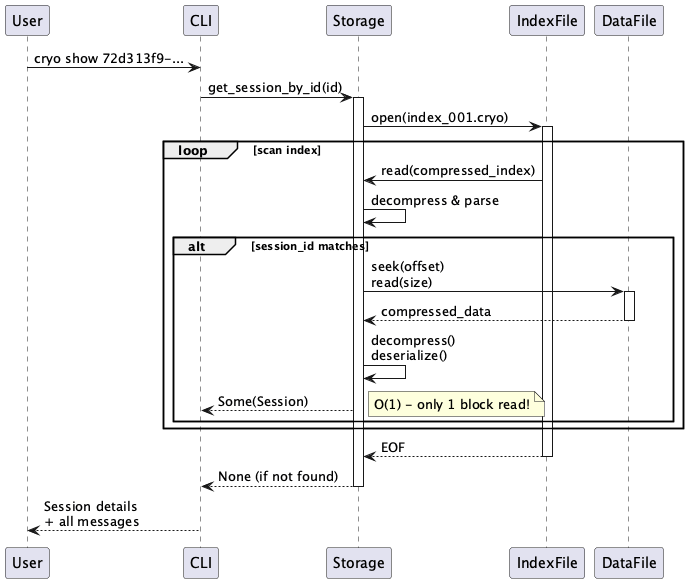
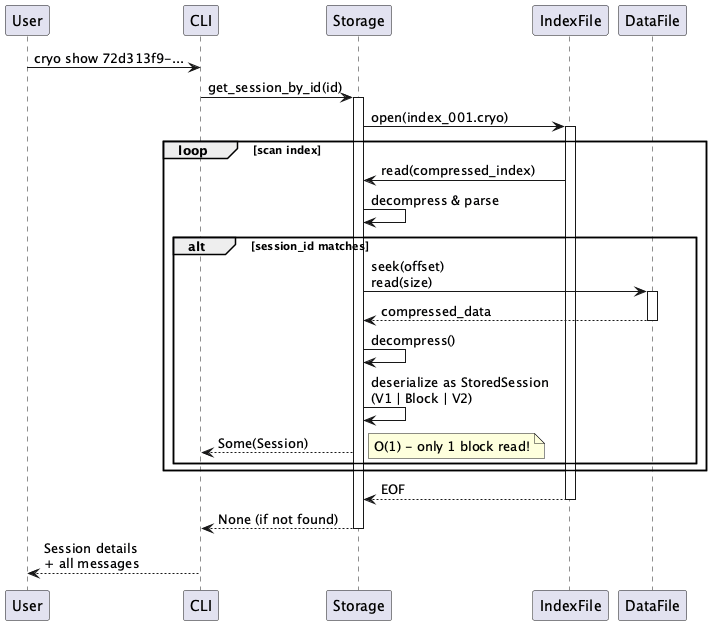
docs: Update architecture diagrams for v0.2.0 existing commands

diff --git a/README.md b/README.md
@@ -359,6 +359,14 @@ Time Range:       2023-07-08 16:15:28 UTC to 2026-01-25 23:15:08 UTC
 *Consolidating WAL segments and active sessions into high-density Zstd compressed blocks.*
 <img src="docs/diagrams/optimise.png" width="500" />
 
+#### High-Density Flush
+*Packing unsealed active V1 JSON files into a single V2 Block for density.*
+<img src="docs/diagrams/flush.png" width="500" />
+
+#### Storage Statistics
+*Dynamically calculating storage sizes across mixed schema formats.*
+<img src="docs/diagrams/stats.png" width="500" />
+
 ### Contributing
 PRs are welcome! Whether it is a bug fix, new feature, or documentation improvement, feel free to open a pull request.
 Please ensure that your code follows standard Rust conventions and that all tests pass before submitting.